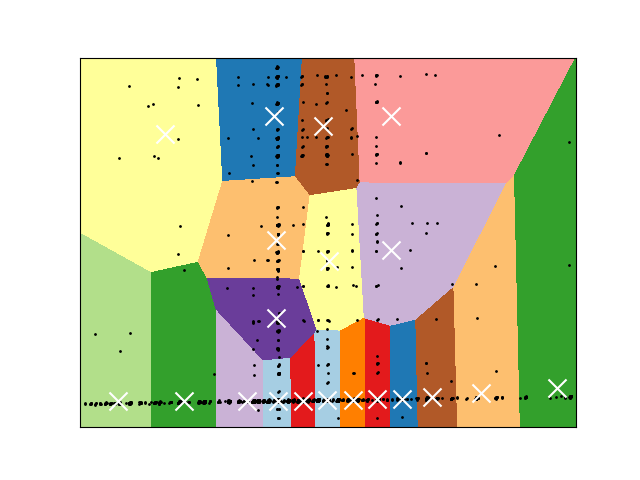
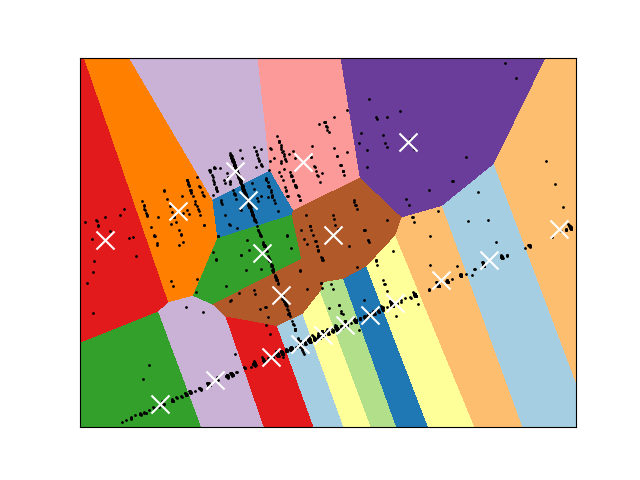
clustering baseline

diff --git a/slice_finder_test.py b/slice_finder_test.py
@@ -88,24 +88,33 @@ class test_data_properties(unittest.TestCase):
         print ("hours/wk > 40, log_loss:", np.mean(metrics_ot), 'eff size:', effect_size(metrics_ot, reference))
         print ("hours/wk <= 40, log_loss:", np.mean(metrics_ot_),'eff size:', effect_size(metrics_ot_, reference))
     
-    def test_model_understanding(self):
+    def test_clustering_example(self):
         # Scale features
         scaler = StandardScaler()
         numeric_cols = ["Capital Gain", "Age", "fnlwgt", "Education-Num", "Capital Loss"]
-        X[numeric_cols] = scaler.fit_transform(X[numeric_cols])
+        X_ = copy.deepcopy(X)
+        X_[numeric_cols] = scaler.fit_transform(X_[numeric_cols])
 
         y_pred = lr.predict(X) 
-        X_mis, y_mis = X[y != y_pred], y[y != y_pred]
+        X_mis, y_mis = X_[y != y_pred], y[y != y_pred]
         reduced_data = PCA(n_components=2).fit_transform(X_mis)
 
         kmeans = KMeans(init='k-means++', n_clusters=20, n_init=10)
         kmeans.fit(reduced_data)
+
+        print ('Cluster centroids')
+        print ('==============================')
         print (kmeans.cluster_centers_)
-        print (X_mis[np.array(kmeans.labels_) == 13])
+        print ('==============================')
+        
         x_min, x_max = reduced_data[:,0].min() - 1, reduced_data[:,0].max() + 1
         y_min, y_max = reduced_data[:,1].min() - 1, reduced_data[:,1].max() + 1
         xx, yy = np.meshgrid(np.arange(x_min, x_max, (x_max-x_min)/10000), np.arange(y_min, y_max, (y_max-y_min)/10000))
+        print ('figure axes')
+        print ('==============================')
         print (xx.min(), xx.max(), yy.min(), yy.max())
+        print ('==============================')
+
         # Obtain labels for each point in mesh. Use last trained model.
         Z = kmeans.predict(np.c_[xx.ravel(), yy.ravel()])
 
@@ -129,6 +138,43 @@ class test_data_properties(unittest.TestCase):
         plt.xticks(())
         plt.yticks(())
         plt.savefig('clusters.png')
+
+
+    def test_clustering(self):
+        sf = SliceFinder(lr, (X,y))
+        metrics_all = sf.evaluate_model((X, y))
+        reference = (np.mean(metrics_all), np.std(metrics_all), len(metrics_all))
+
+        # Scale features
+        scaler = StandardScaler()
+        numeric_cols = ["Capital Gain", "Age", "fnlwgt", "Education-Num", "Capital Loss"]
+        X_ = copy.deepcopy(X)
+        X_[numeric_cols] = scaler.fit_transform(X_[numeric_cols])
+
+        y_pred = lr.predict(X) 
+        X_mis, y_mis = X_[y != y_pred], y[y != y_pred]
+        reduced_data_train = PCA(n_components=2).fit_transform(X_mis)
+        reduced_data_test = PCA(n_components=2).fit_transform(X_)
+
+        for n_clusters in range(1, 21):
+            kmeans = KMeans(init='k-means++', n_clusters=n_clusters, n_init=10)
+            kmeans.fit(reduced_data_train) # train with mis-classified data
+            y_predicted = kmeans.predict(reduced_data_test) # classify all data
+
+            # cluster the original data with the leanred centroids
+            # analyze each cluster (e.g., compute effect size)
+            print('==========================')
+            print('n_clusters: %s'%n_clusters)
+            print('==========================')
+            for cluster_id in np.unique(kmeans.labels_):
+                X_cluster = X[np.array(y_predicted) == cluster_id]
+                y_cluster = y[np.array(y_predicted) == cluster_id]
+                eff_size_ = effect_size(sf.evaluate_model((X_cluster, y_cluster)), reference)
+                print('id: %s, size: %s, eff_size: %s'%(cluster_id, len(X_cluster), eff_size_))
+            print('==========================')
+
+        
+        
 
     def test_decision_tree(self):
         # 0- correct, 1- wrongly classified
@@ -157,9 +203,9 @@ class test_data_properties(unittest.TestCase):
                 decisions.append(1)
         
         clf = DecisionTree((X, y), lr)
-        clf = clf.fit(max_depth=5, min_size=5000)
+        clf = clf.fit(max_depth=3, min_size=100)
 
-        recommendations = clf.recommend_slices(k=20, min_effect_size=0.4)
+        recommendations = clf.recommend_slices(k=20, min_effect_size=0.3)
         for r in recommendations:
             print ('====================')
             print (', '.join(r.__ancestry__()))
@@ -201,12 +247,4 @@ class test_slice_finder(unittest.TestCase):
 
 
 if __name__ == '__main__':
-    #unittest.main()
-    suite = unittest.TestSuite()
-    #suite.addTest(test_data_properties("test_decision_tree"))
-    suite.addTest(test_data_properties("test_decision_tree_with_effect_size"))
-    #suite.addTest(test_slice_finder("test_find_slice"))
-    #suite.addTest(test_data_properties("test_explore_data"))
-    #suite.addTest(test_data_properties("test_model_understanding"))
-    runner = unittest.TextTestRunner()
-    runner.run(suite)
+    unittest.main()

diff --git a/decision_tree.py b/decision_tree.py
@@ -43,13 +43,38 @@ class DecisionTree:
         # process left child
         if len(X_left) >= min_size:
             node.left_child = self.get_split_((X_left, y_left))
-            node.left_child.parent = node
-            node.left_child = self.split_(node.left_child, depth+1, max_depth, min_size)
+            if node.left_child is not None:
+                node.left_child.parent = node
+                node.left_child = self.split_(node.left_child, depth+1, max_depth, min_size)
         # process right child
         if len(X_right) >= min_size:
             node.right_child = self.get_split_((X_right, y_right))
-            node.right_child.parent = node
-            node.right_child = self.split_(node.right_child, depth+1, max_depth, min_size)
+            if node.right_child is not None:
+                node.right_child.parent = node
+                node.right_child = self.split_(node.right_child, depth+1, max_depth, min_size)
+
+        return node
+
+    def test_split_(self, X, y, attr_idx, value):
+        left = X[X.iloc[:, attr_idx] < value].index
+        right = X[X.iloc[:, attr_idx] >= value].index
+        IG = self.entropy_(y) - len(left)/len(y) * self.entropy_(y[left]) - len(right)/len(y) * self.entropy_(y[right])
+        return IG, left, right
+
+    def get_split_(self, data):
+        X, y = data[0], data[1]
+        n_examples, n_features = data[0].shape
+        IG, left_group, right_group, attr_idx, value  = 0, pd.DataFrame().index, pd.DataFrame().index, None, None
+        for attr_idx_ in range(n_features): 
+            for v in np.unique(X.iloc[:,attr_idx_]):
+                IG_, left_, right_ = self.test_split_(X, y, attr_idx_, v)
+                if IG < IG_:
+                    IG, left_group, right_group, attr_idx, value = IG_, left_, right_, attr_idx_, v
+
+        if attr_idx is None:
+            return None
+        else:
+            node = Node((self.columns[attr_idx], value), left_group, right_group) 
 
         return node
 
@@ -62,26 +87,8 @@ class DecisionTree:
             entropy += -p * np.log2(p)
         return entropy
 
-    def test_split_(self, X, y, attr_idx, value):
-        left = X[X.iloc[:, attr_idx] < value].index
-        right = X[X.iloc[:, attr_idx] >= value].index
-        IG = self.entropy_(y) - len(left)/len(y) * self.entropy_(y[left]) - len(right)/len(y) * self.entropy_(y[right])
-        return IG, left, right
 
-    def get_split_(self, data):
-        X, y = data[0], data[1]
-        n_examples, n_features = data[0].shape
-        IG, left_group, right_group, attr_idx, value  = 0, list(), list(), None, None
-        for attr_idx_ in range(n_features): 
-            for v in np.unique(X.iloc[:,attr_idx_]):
-                IG_, left_, right_ = self.test_split_(X, y, attr_idx_, v)
-                if IG < IG_:
-                    IG, left_group, right_group, attr_idx, value = IG_, left_, right_, attr_idx_, v
-        node = Node('%s < %s'%(self.columns[attr_idx], value), left_group, right_group) 
-
-        return node
-
-    def recommend_slices(self, k=20, min_effect_size=0.5):
+    def recommend_slices(self, k=20, min_effect_size=0.3):
         recommendations = []
         candidates = [self.root]
         k_ = 0
@@ -124,12 +131,19 @@ class Node:
         self.parent = None
         
     def __str__(self):
-        return '%s, size: %s'%(self.desc, len(self.left_group)+len(self.right_group))
+        description_ = ''
+        if self.parent is None:
+            description_ = 'root'
+        elif self.parent.left_child is self:
+            description_ = '%s < %s'%(self.desc[0], self.desc[1])
+        elif self.parent.right_child is self:
+            description_ = '%s >= %s'%(self.desc[0], self.desc[1])
+        return '%s, size: %s'%(description_, len(self.left_group)+len(self.right_group))
 
     def __ancestry__(self):
         ancestors = []
         if self.parent is not None:
-            ancestors.append(self.parent.desc)
+            ancestors.append(self.parent.__str__())
             ancestors += self.parent.__ancestry__()
         return ancestors
     
